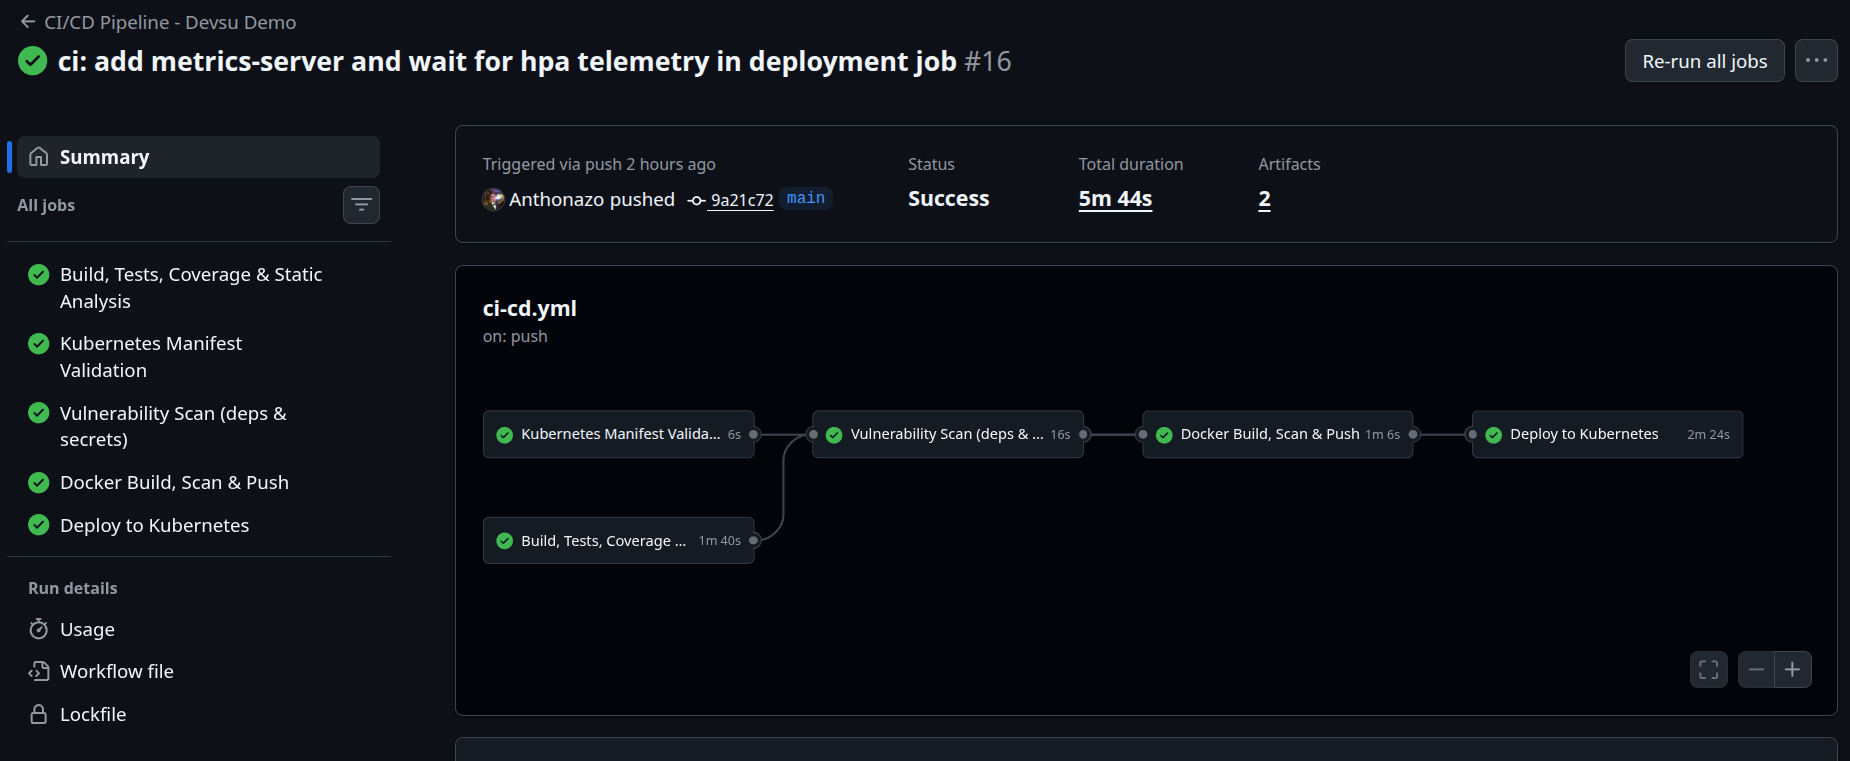
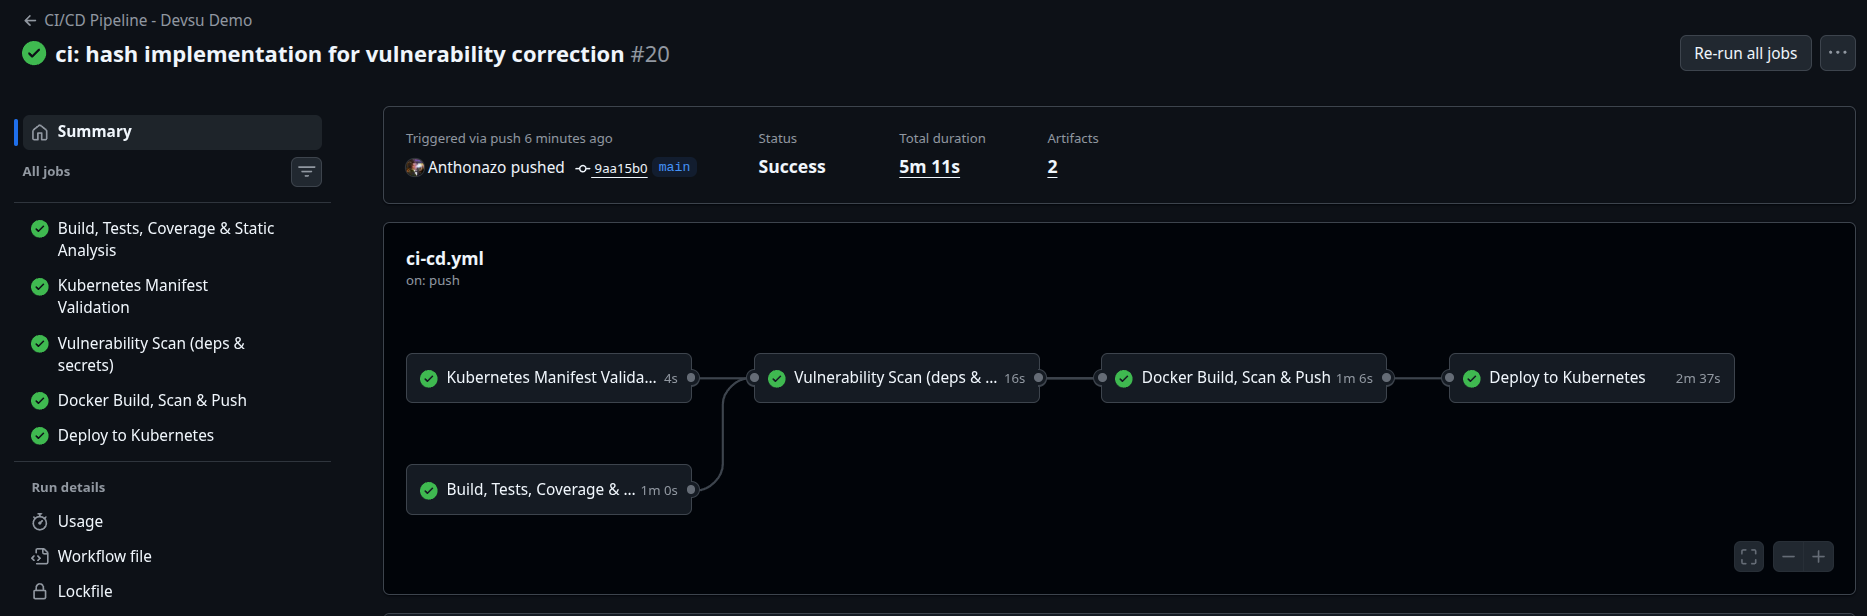
ci: update readme and photos

diff --git a/README.md b/README.md
@@ -535,7 +535,7 @@ Valida la sintaxis y el esquema de los manifiestos antes de construir nada, sin 
 
 
 - **SonarCloud:** [Dashboard público del proyecto](https://sonarcloud.io/project/overview?id=Anthonazo_devsu-devops-test)
-  - Cobertura reportada por JaCoCo: **27.2%** (código base heredado sin modificar lógica de la app). El quality gate de SonarCloud figura como fallido, debido a que la cobertura es 27.2% porque el proyecto base trae pocos tests. No es bloqueante en el pipeline; en un entorno productivo lo activaría como gate de merge.
+  - Cobertura reportada por JaCoCo: **27.2%** (código base heredado sin modificar lógica de la app). 
   - Vulnerabilidades / Hotspots: **0 hotspots de seguridad** (Rating A en revisión).
   - Deuda técnica y duplicación: **0.0% duplicaciones**, mantenibilidad Rating A.
 
